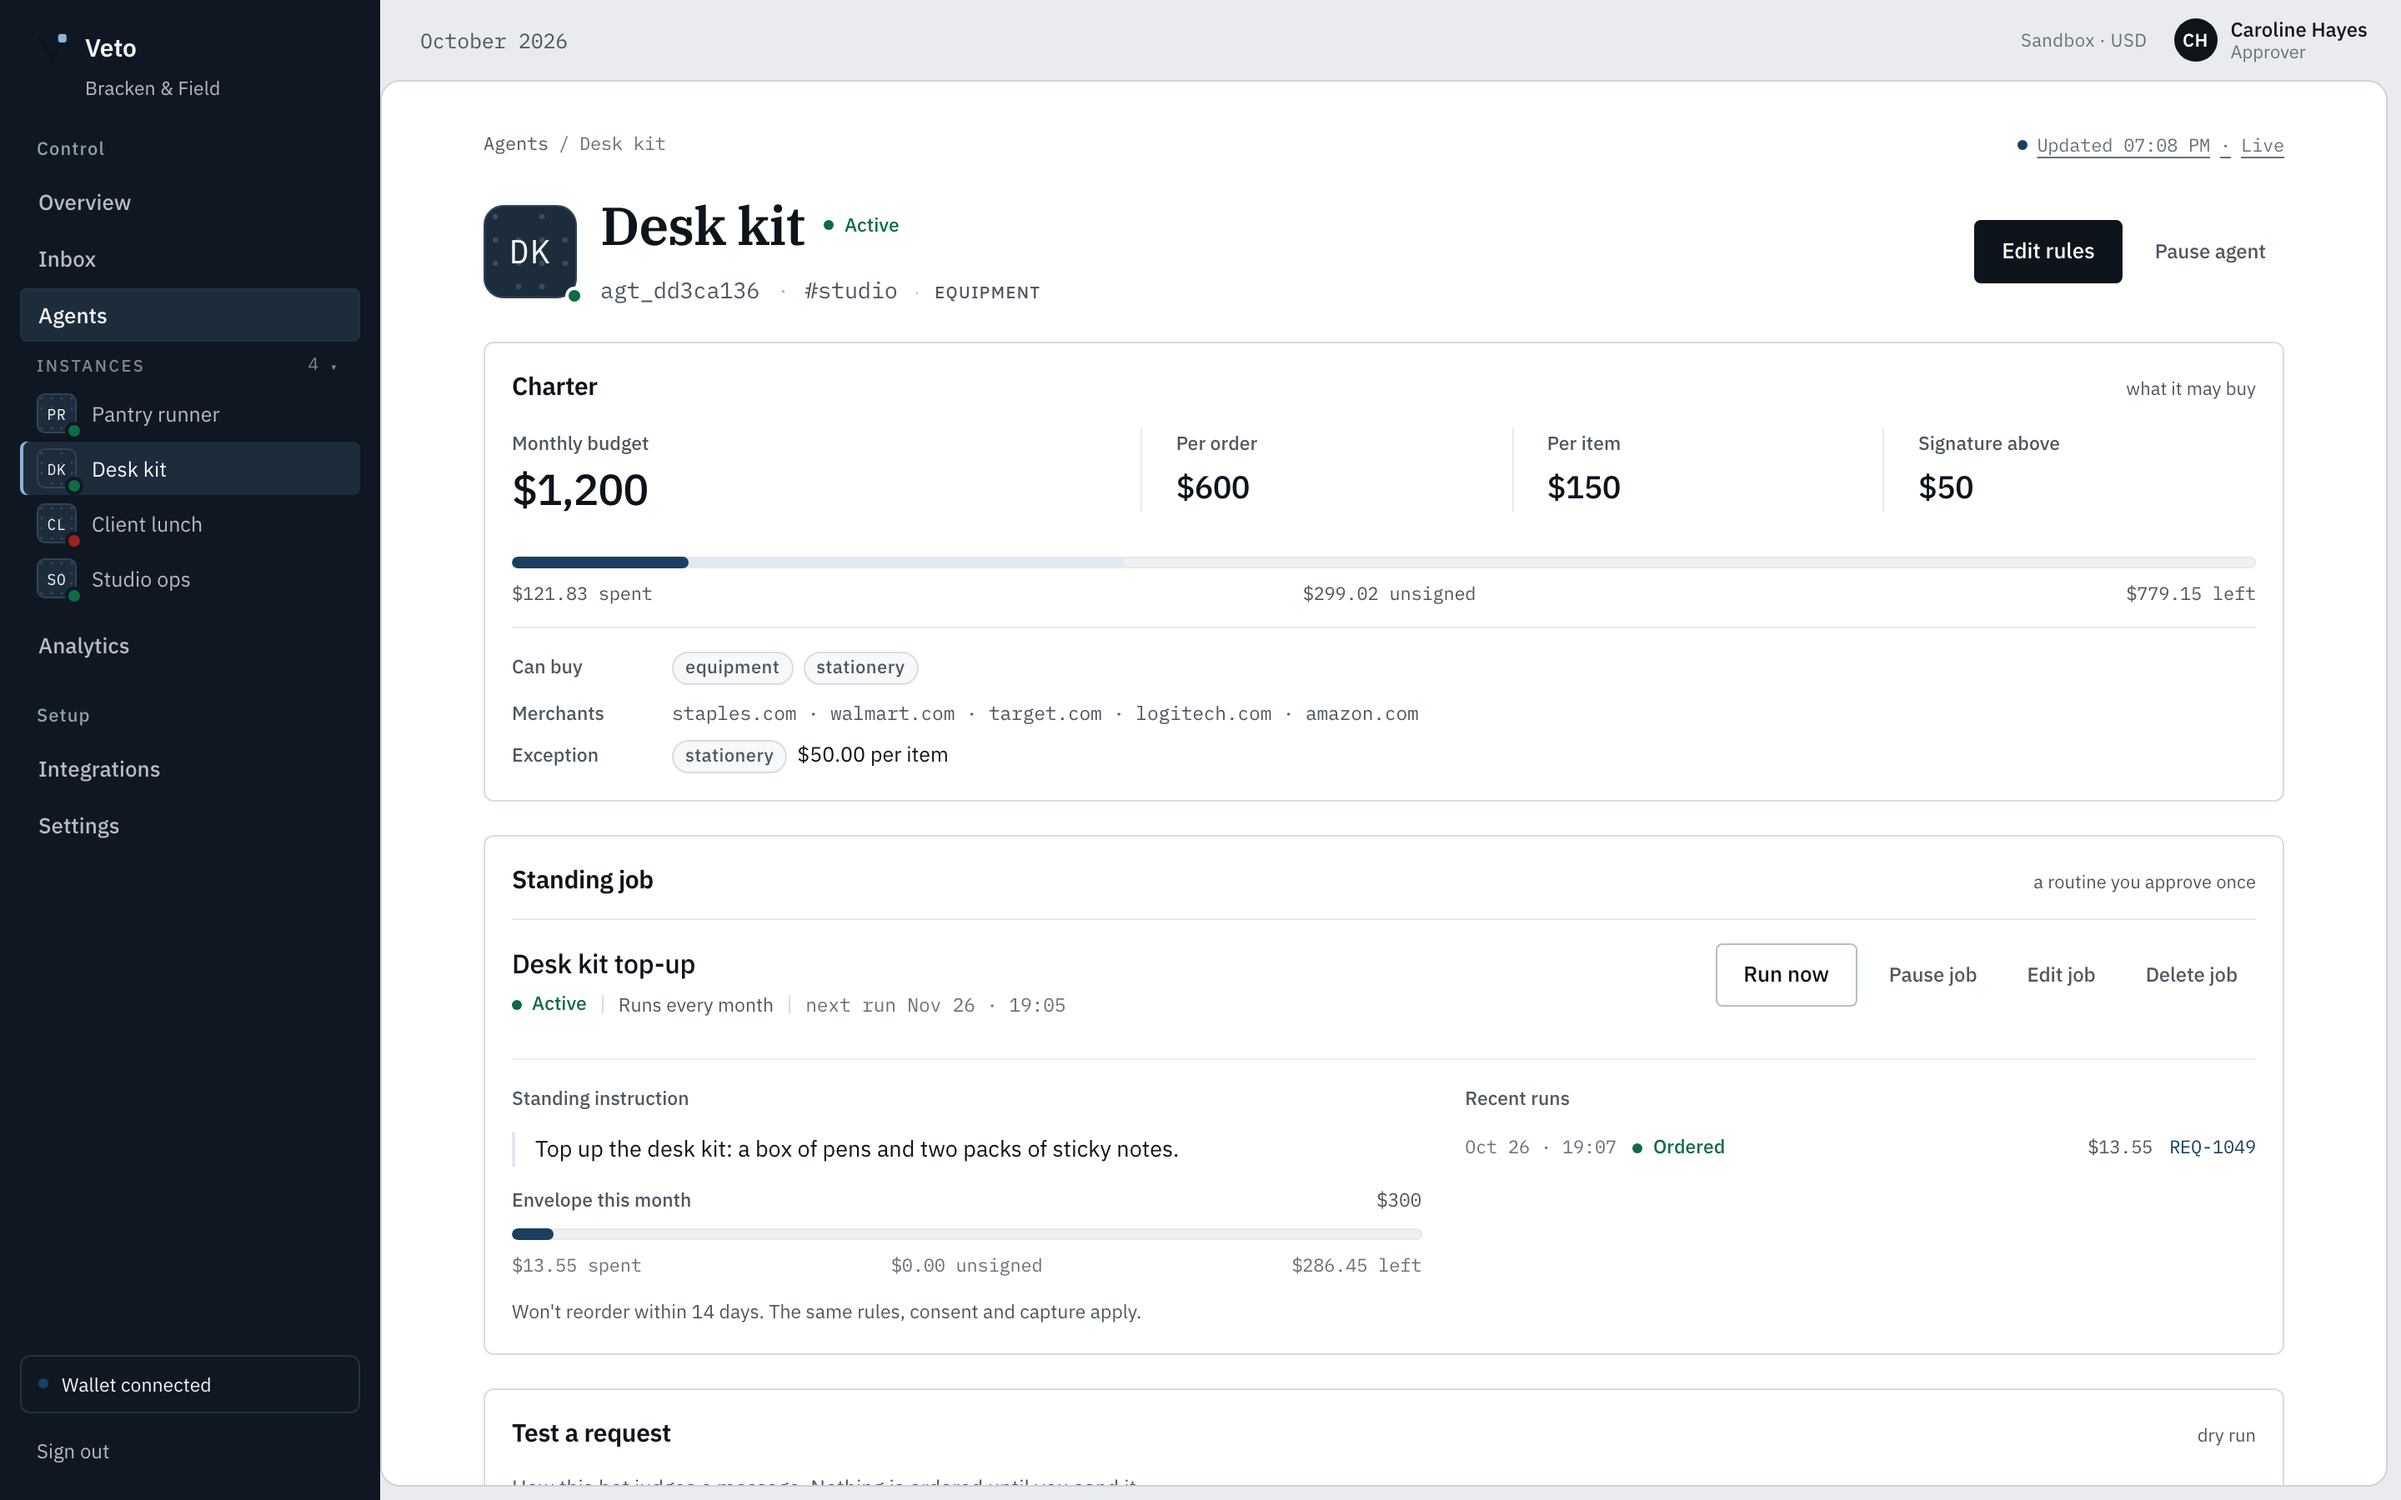
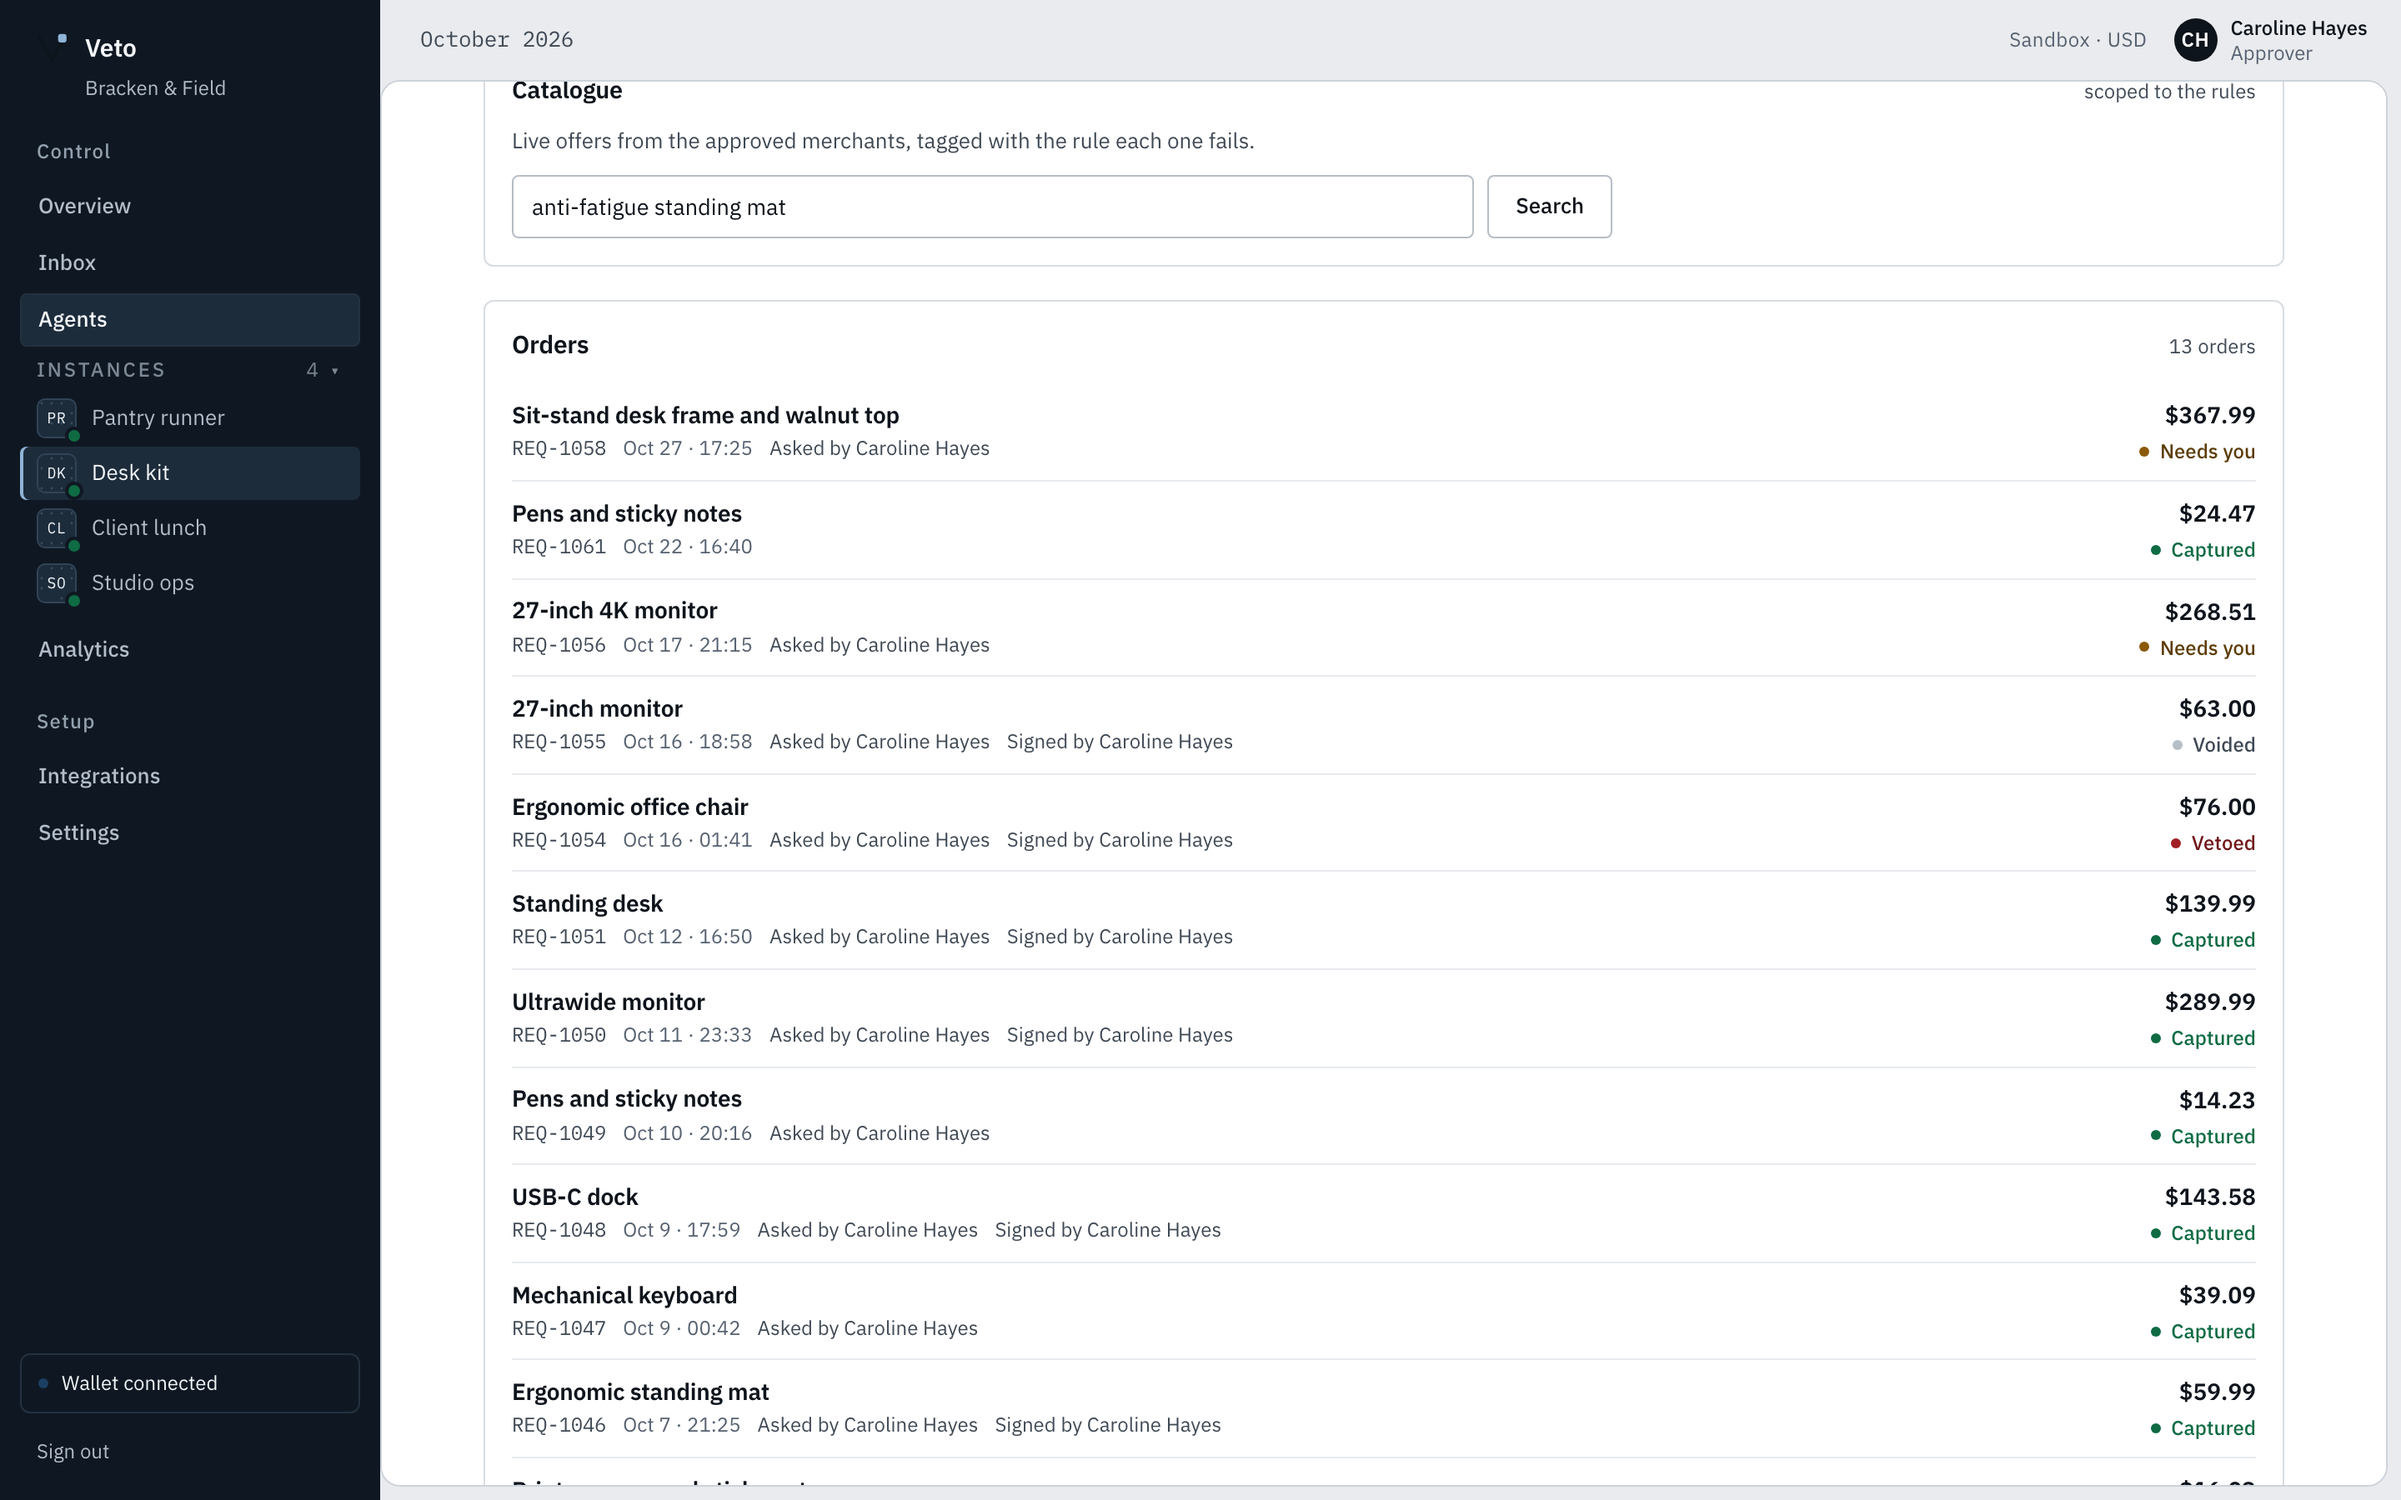
shots: hosted evidence for round 5
Overview (month in progress, 1 waiting), an agent's receipts with who asked and
who signed, the merged request tool + catalogue, and the Analytics donut.

diff --git a/README.md b/README.md
@@ -112,9 +112,9 @@ flowchart TB
 One record: every rule that fired with its observed value and limit, the cart, the PayPal
 object chain, the consent hash and window, the trail. Approve, veto and void are gated by state.
 
-<img src="shots/hosted3-agents-1440.png" width="100%" alt="Agents: instance plates with charters, standing jobs and scope">
+<img src="shots/hosted3-agent-detail-1440.png" width="100%" alt="An agent page: charter, standing job, one request tool and every order as a receipt">
 
-Agents are instances with their own charter and standing job. The rest of the console —
+An agent is an instance: charter, standing job, one tool that both dry-runs a cart and browses the catalogue (every offer can be ordered exactly as shown), and every order as a receipt — amount, state, who asked, who signed. The rest of the console —
 [Overview](https://veto-bracken-field.onrender.com/app/#/), [Inbox](https://veto-bracken-field.onrender.com/app/#/inbox),
 [Analytics](https://veto-bracken-field.onrender.com/app/#/analytics),
 [Integrations](https://veto-bracken-field.onrender.com/app/#/integrations),
